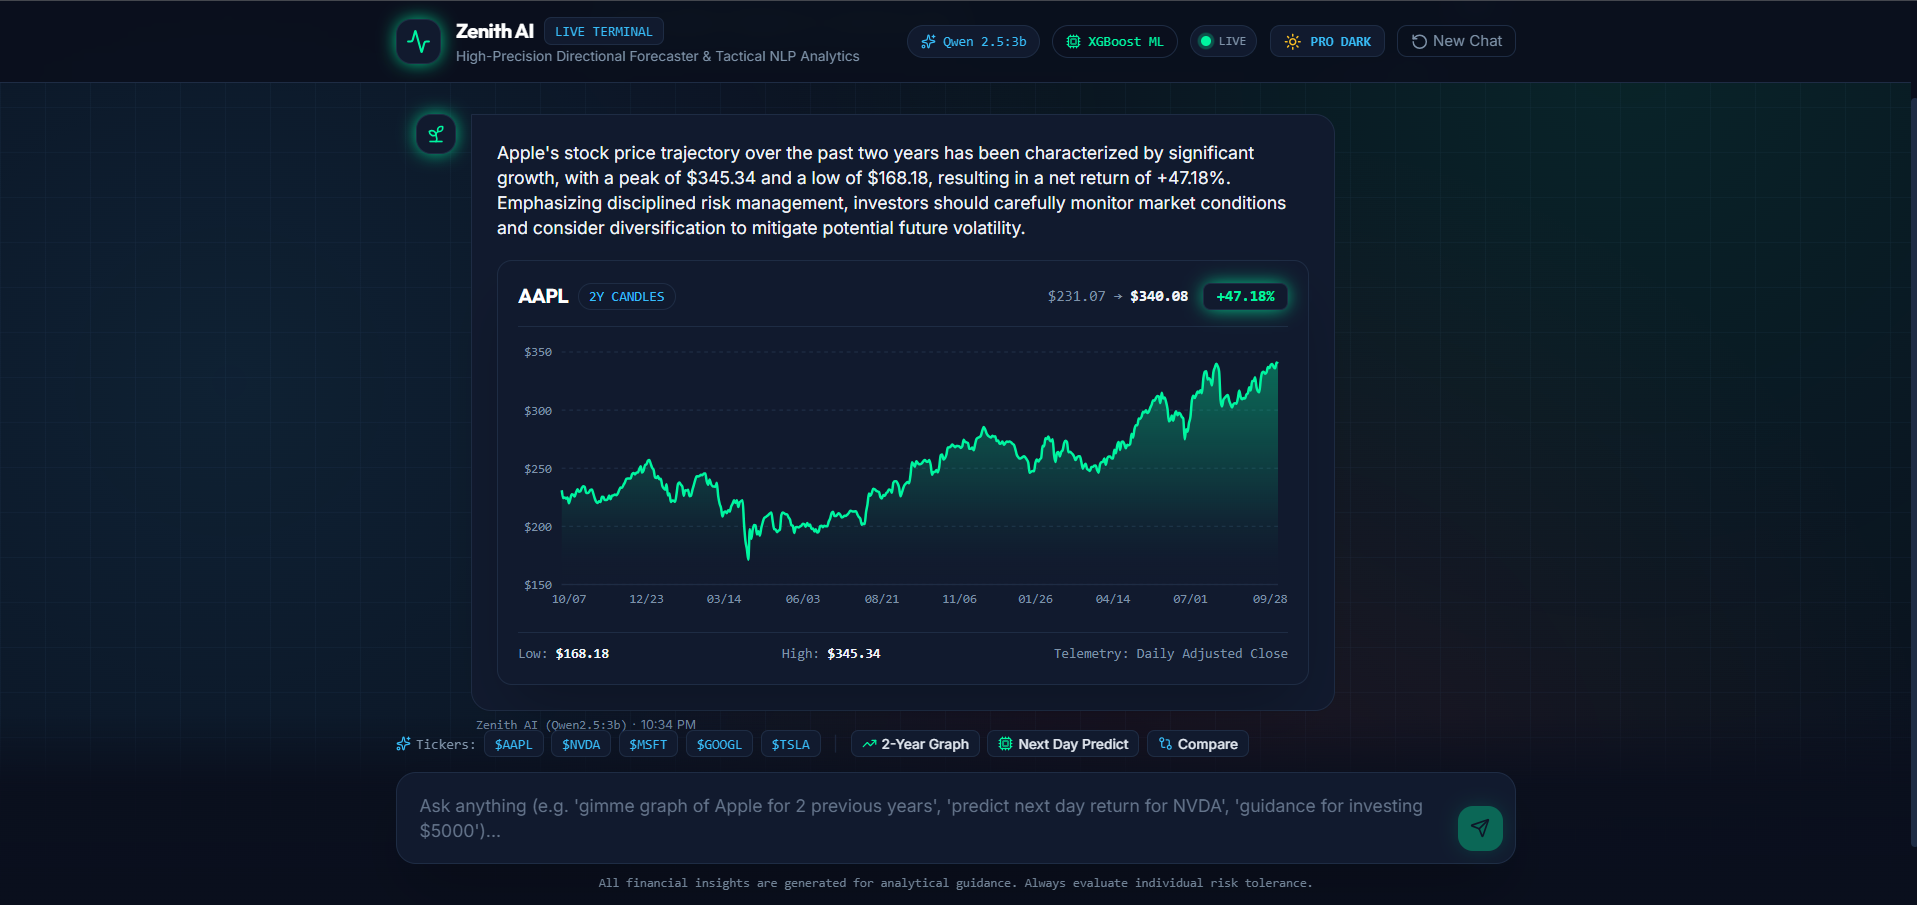
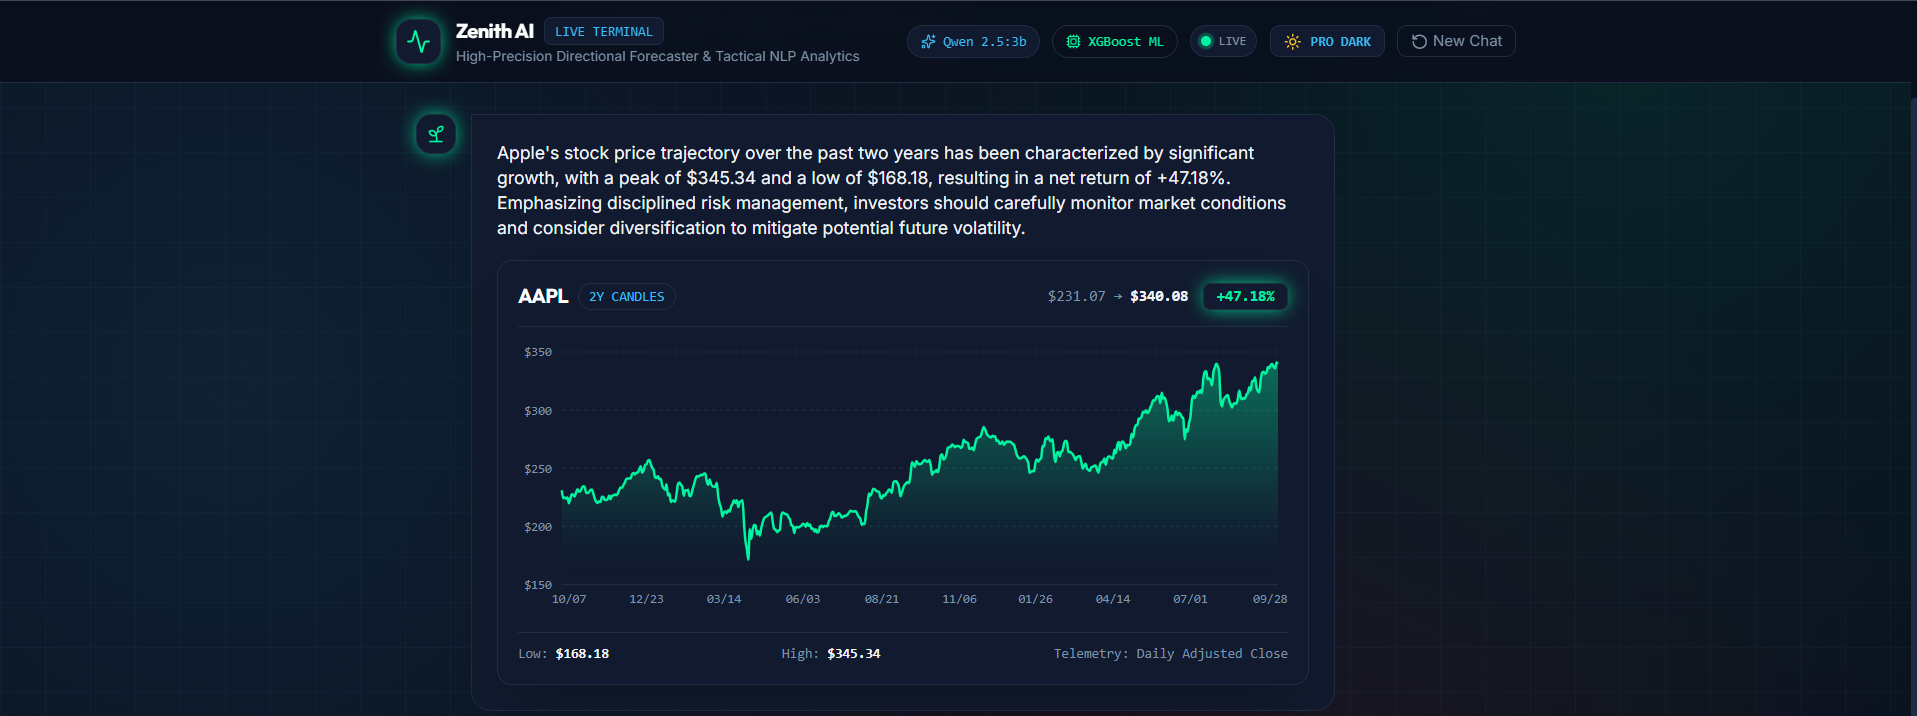
some changes

diff --git a/src/components/Navbar.jsx b/src/components/Navbar.jsx
@@ -43,85 +43,24 @@ const Navbar = () => {
     return () => window.removeEventListener('scroll', handleScroll);
   }, []);
 
-  // Silky smooth kinetic scroll function with cubic easing
-  const smoothScrollTo = (targetY, duration = 650) => {
-    if (window._navScrollAnim) {
-      cancelAnimationFrame(window._navScrollAnim);
-      window._navScrollAnim = null;
-    }
-
-    const startY = window.pageYOffset || document.documentElement.scrollTop;
-    const difference = targetY - startY;
-    if (Math.abs(difference) < 4) return;
-
-    const startTime = performance.now();
-
-    // Silky smooth Apple-style cubic easing (accelerates smoothly, decelerates luxuriously)
-    const easeInOutCubic = (t) =>
-      t < 0.5 ? 4 * t * t * t : 1 - Math.pow(-2 * t + 2, 3) / 2;
-
-    const cancelScroll = () => {
-      if (window._navScrollAnim) {
-        cancelAnimationFrame(window._navScrollAnim);
-        window._navScrollAnim = null;
-      }
-      window.removeEventListener('wheel', cancelScroll);
-      window.removeEventListener('touchstart', cancelScroll);
-    };
-
-    window.addEventListener('wheel', cancelScroll, { passive: true });
-    window.addEventListener('touchstart', cancelScroll, { passive: true });
-
-    const step = (currentTime) => {
-      const elapsed = currentTime - startTime;
-      const progress = Math.min(elapsed / duration, 1);
-      const easedProgress = easeInOutCubic(progress);
-
-      window.scrollTo(0, startY + difference * easedProgress);
-
-      if (progress < 1) {
-        window._navScrollAnim = requestAnimationFrame(step);
-      } else {
-        window._navScrollAnim = null;
-        window.removeEventListener('wheel', cancelScroll);
-        window.removeEventListener('touchstart', cancelScroll);
-      }
-    };
-
-    window._navScrollAnim = requestAnimationFrame(step);
-  };
-
-  // Smooth scroll helper for both desktop and mobile drawer
+  // Smooth scroll helper
   const handleScrollTo = (e, id) => {
     e.preventDefault();
     setActiveSection(id);
-    document.body.style.overflow = 'unset';
-    setIsOpen(false);
-
-    if (id === 'hero') {
-      window.history.pushState(null, '', '/');
-      smoothScrollTo(0, 650);
-      return;
-    }
-
     const element = document.getElementById(id);
     if (element) {
+      setIsOpen(false);
+      element.scrollIntoView({ behavior: 'smooth' });
       window.history.pushState(null, '', `#${id}`);
-      const navbarHeight = 64;
-      const elementRect = element.getBoundingClientRect();
-      const currentScrollY = window.pageYOffset || document.documentElement.scrollTop;
-      const targetY = Math.max(0, elementRect.top + currentScrollY - navbarHeight);
-      smoothScrollTo(targetY, 650);
     }
   };
 
   const handleScrollToTop = (e) => {
     e.preventDefault();
-    document.body.style.overflow = 'unset';
     setIsOpen(false);
+    window.scrollTo({ top: 0, behavior: 'smooth' });
     window.history.pushState(null, '', '/');
     setActiveSection('hero');
-    smoothScrollTo(0, 650);
   };
 
   // Lock body scroll when mobile menu is active
@@ -271,23 +210,23 @@ const Navbar = () => {
               initial={{ opacity: 0 }}
               animate={{ opacity: 1 }}
               exit={{ opacity: 0 }}
-              transition={{ duration: 0.2 }}
-              className="fixed inset-0 bg-black/65 backdrop-blur-md z-40 md:hidden"
+              transition={{ duration: 0.25 }}
+              className="fixed inset-0 bg-black/60 backdrop-blur-sm z-40 md:hidden"
               onClick={() => setIsOpen(false)}
             />
 
             {/* Dropdown Panel */}
             <motion.div
-              initial={{ opacity: 0, y: -14, scaleY: 0.96 }}
+              initial={{ opacity: 0, y: -12, scaleY: 0.96 }}
               animate={{ opacity: 1, y: 0, scaleY: 1 }}
-              exit={{ opacity: 0, y: -12, scaleY: 0.96, transition: { duration: 0.22, ease: [0.16, 1, 0.3, 1] } }}
-              transition={{ type: 'spring', stiffness: 420, damping: 30 }}
+              exit={{ opacity: 0, y: -8, scaleY: 0.97 }}
+              transition={{ type: 'spring', stiffness: 450, damping: 30 }}
               style={{ transformOrigin: 'top' }}
               className="fixed top-[calc(2px+3.5rem)] inset-x-0 z-50 md:hidden px-3 sm:px-5"
             >
-              <div className="bg-[#0c0c0f]/98 backdrop-blur-2xl border border-white/[0.08] rounded-2xl overflow-hidden shadow-[0_24px_60px_rgba(0,0,0,0.95)]">
+              <div className="bg-[#0c0c0f]/98 backdrop-blur-2xl border border-white/[0.08] rounded-2xl overflow-hidden shadow-[0_24px_60px_rgba(0,0,0,0.9)]">
                 {/* Links */}
-                <div className="p-3.5 sm:p-4 flex flex-col gap-1">
+                <div className="p-4 flex flex-col gap-0.5">
                   {navLinks.map((link, i) => {
                     const active = isLinkActive(link.path);
                     return (
@@ -297,32 +236,21 @@ const Navbar = () => {
                         onClick={(e) => handleScrollTo(e, link.path)}
                         initial={{ opacity: 0, x: -12 }}
                         animate={{ opacity: 1, x: 0 }}
-                        exit={{ opacity: 0, x: -6, transition: { duration: 0.15 } }}
-                        transition={{ delay: 0.02 + i * 0.035, duration: 0.22 }}
-                        whileTap={{ scale: 0.97 }}
-                        className={`flex items-center justify-between px-4 py-3.5 rounded-xl text-sm font-semibold tracking-wide transition-all duration-300 cursor-pointer select-none ${
+                        transition={{ delay: 0.03 + i * 0.04, duration: 0.25 }}
+                        className={`flex items-center justify-between px-4 py-3.5 rounded-xl text-sm font-semibold tracking-wide transition-all cursor-pointer ${
                           active
-                            ? 'text-white bg-white/[0.08] border-l-2 border-primary shadow-[inset_0_0_12px_rgba(255,255,255,0.04)]'
-                            : 'text-white/50 hover:text-white/90 hover:bg-white/[0.03] border-l-2 border-transparent'
+                            ? 'text-white bg-white/[0.05] border-l-2 border-primary'
+                            : 'text-white/40 hover:text-white/80 hover:bg-white/[0.02] border-l-2 border-transparent'
                         }`}
                       >
                         <div className="flex items-center gap-3.5">
-                          <span className={`text-[10px] font-mono tabular-nums transition-colors duration-200 ${
-                            active ? 'text-primary' : 'text-zinc-500'
-                          }`}>
+                          <span className="text-[10px] font-mono text-primary/50 w-4 tabular-nums">
                             {String(i + 1).padStart(2, '0')}
                           </span>
                           <span>{link.name}</span>
                         </div>
                         {active && (
-                          <motion.div
-                            layoutId="drawerActiveIndicator"
-                            className="flex items-center gap-1.5"
-                            transition={{ type: 'spring', stiffness: 500, damping: 30 }}
-                          >
-                            <span className="text-[10px] font-mono text-zinc-400 uppercase tracking-wider">Active</span>
-                            <span className="w-1.5 h-1.5 rounded-full bg-primary shadow-[0_0_8px_rgba(200,200,210,0.9)] animate-pulse" />
-                          </motion.div>
+                          <span className="w-1.5 h-1.5 rounded-full bg-primary shadow-[0_0_6px_rgba(200,200,210,0.8)]" />
                         )}
                       </motion.a>
                     );

diff --git a/src/components/FeaturedProjects.jsx b/src/components/FeaturedProjects.jsx
@@ -41,7 +41,11 @@ const ProjectCard = ({ project, index, isSpanFull }) => {
           alt={project.title}
           loading="lazy"
           decoding="async"
-          className="absolute inset-0 w-full h-full object-cover transition-transform duration-[1.2s] ease-out group-hover:scale-105 filter brightness-[0.35] group-hover:brightness-[0.25]"
+          className={`absolute inset-0 w-full h-full object-cover transition-all duration-[1.2s] ease-out group-hover:scale-[1.02] ${
+            project.id === 'stock-chatbot'
+              ? 'object-top brightness-[0.68] group-hover:brightness-[0.8]'
+              : 'object-center brightness-[0.45] group-hover:brightness-[0.55]'
+          }`}
         />
       ) : (
         <div className="absolute inset-0 bg-bg-surface flex items-center justify-center">
@@ -50,7 +54,13 @@ const ProjectCard = ({ project, index, isSpanFull }) => {
       )}
 
       {/* Cinematic Bottom Gradient Overlay */}
-      <div className="absolute inset-0 bg-gradient-to-t from-[#09090b] via-[#09090b]/85 to-transparent z-10" />
+      <div 
+        className={`absolute inset-0 z-10 pointer-events-none transition-opacity duration-500 ${
+          project.id === 'stock-chatbot'
+            ? 'bg-gradient-to-t from-[#09090b] via-[#09090b]/70 to-[#09090b]/10'
+            : 'bg-gradient-to-t from-[#09090b] via-[#09090b]/85 to-transparent'
+        }`} 
+      />
 
       {/* Content Layer */}
       <div className="relative z-20 flex flex-col justify-end p-6 sm:p-7 md:p-8 w-full h-full">
@@ -137,11 +147,11 @@ const FeaturedProjects = () => {
   const { projects } = portfolioData;
 
   return (
-    <section className="py-16 md:py-24 relative overflow-hidden scroll-mt-16 sm:scroll-mt-20" id="projects">
+    <section className="pt-8 sm:pt-10 md:pt-12 pb-16 md:pb-24 relative overflow-hidden scroll-mt-6 sm:scroll-mt-8" id="projects">
       <div className="w-full px-5 sm:px-8 md:px-10 lg:px-14">
 
         {/* Section Header */}
-        <div className="flex items-center gap-4 mb-10 md:mb-14">
+        <div className="flex items-center gap-4 mb-6 sm:mb-8">
           <motion.span
             initial={{ opacity: 0, x: -10 }}
             whileInView={{ opacity: 1, x: 0 }}

diff --git a/src/components/BiographySection.jsx b/src/components/BiographySection.jsx
@@ -140,7 +140,7 @@ const BiographySection = () => {
   const words = paragraph.split(' ');
 
   return (
-    <section className="py-16 md:py-24 relative overflow-hidden scroll-mt-16 sm:scroll-mt-20" id="about">
+    <section className="pt-8 sm:pt-10 md:pt-12 pb-16 md:pb-24 relative overflow-hidden scroll-mt-6 sm:scroll-mt-8" id="about">
       {/* Ambient background glows */}
       <div className="absolute top-1/4 left-1/3 -translate-y-1/2 w-96 h-96 bg-primary/[0.03] rounded-full blur-[140px] pointer-events-none" />
       <div className="absolute bottom-10 right-1/4 w-80 h-80 bg-white/[0.02] rounded-full blur-[130px] pointer-events-none" />
@@ -148,7 +148,7 @@ const BiographySection = () => {
       <div className="w-full px-5 sm:px-8 md:px-10 lg:px-14 relative z-10">
 
         {/* Section Header */}
-        <div className="flex flex-col md:flex-row md:items-end justify-between gap-6 mb-10 md:mb-12">
+        <div className="flex flex-col md:flex-row md:items-end justify-between gap-6 mb-8 md:mb-10">
           <div>
             <div className="flex items-center gap-4 mb-2.5">
               <motion.span

diff --git a/src/components/InteractiveSkills.jsx b/src/components/InteractiveSkills.jsx
@@ -309,7 +309,7 @@ const InteractiveSkills = () => {
   );
 
   return (
-    <section className="pt-16 sm:pt-20 md:pt-24 pb-8 md:pb-12 relative overflow-hidden scroll-mt-16 sm:scroll-mt-20" id="skills">
+    <section className="pt-6 sm:pt-8 md:pt-10 pb-8 md:pb-12 relative overflow-hidden scroll-mt-6 sm:scroll-mt-8" id="skills">
       {/* Subtle Ambient Canvas Glow */}
       <div className="absolute top-1/3 left-1/4 -translate-y-1/2 w-96 h-96 bg-primary/[0.04] rounded-full blur-[140px] pointer-events-none" />
       <div className="absolute bottom-1/4 right-1/4 w-80 h-80 bg-white/[0.02] rounded-full blur-[120px] pointer-events-none" />

diff --git a/src/index.css b/src/index.css
@@ -47,11 +47,6 @@
   --glow-color-2: rgba(160, 160, 171, 0.04);
 }
 
-html {
-  scroll-behavior: smooth;
-  scroll-padding-top: 5rem;
-}
-
 body {
   font-family: 'DM Sans', sans-serif;
   color: var(--text-main);
@@ -60,6 +55,7 @@ body {
   position: relative;
   overflow-x: hidden;
   transition: background-color 0.5s ease, color 0.5s ease;
+  scroll-behavior: smooth;
   -webkit-font-smoothing: antialiased;
 }
 
